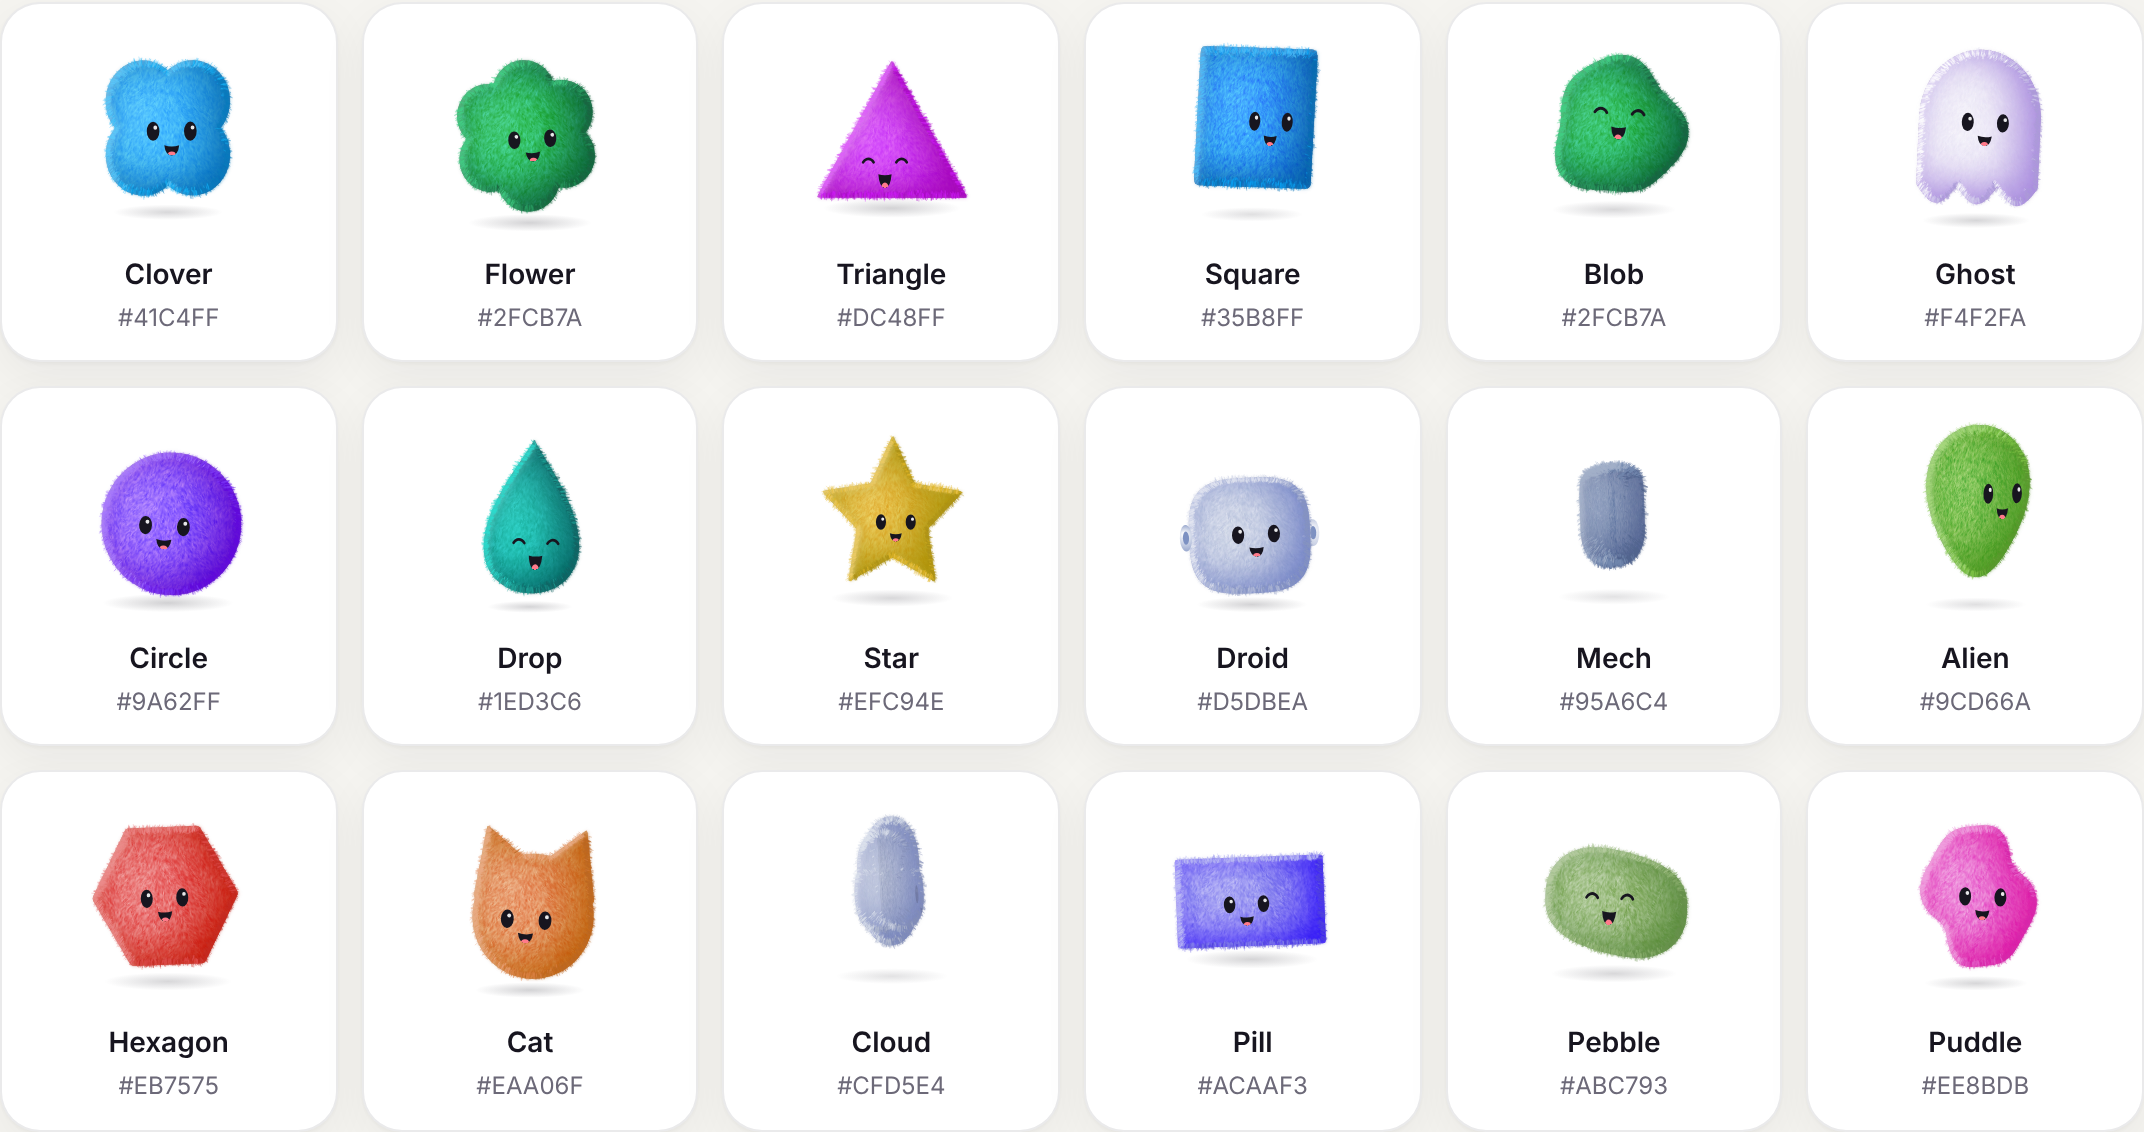
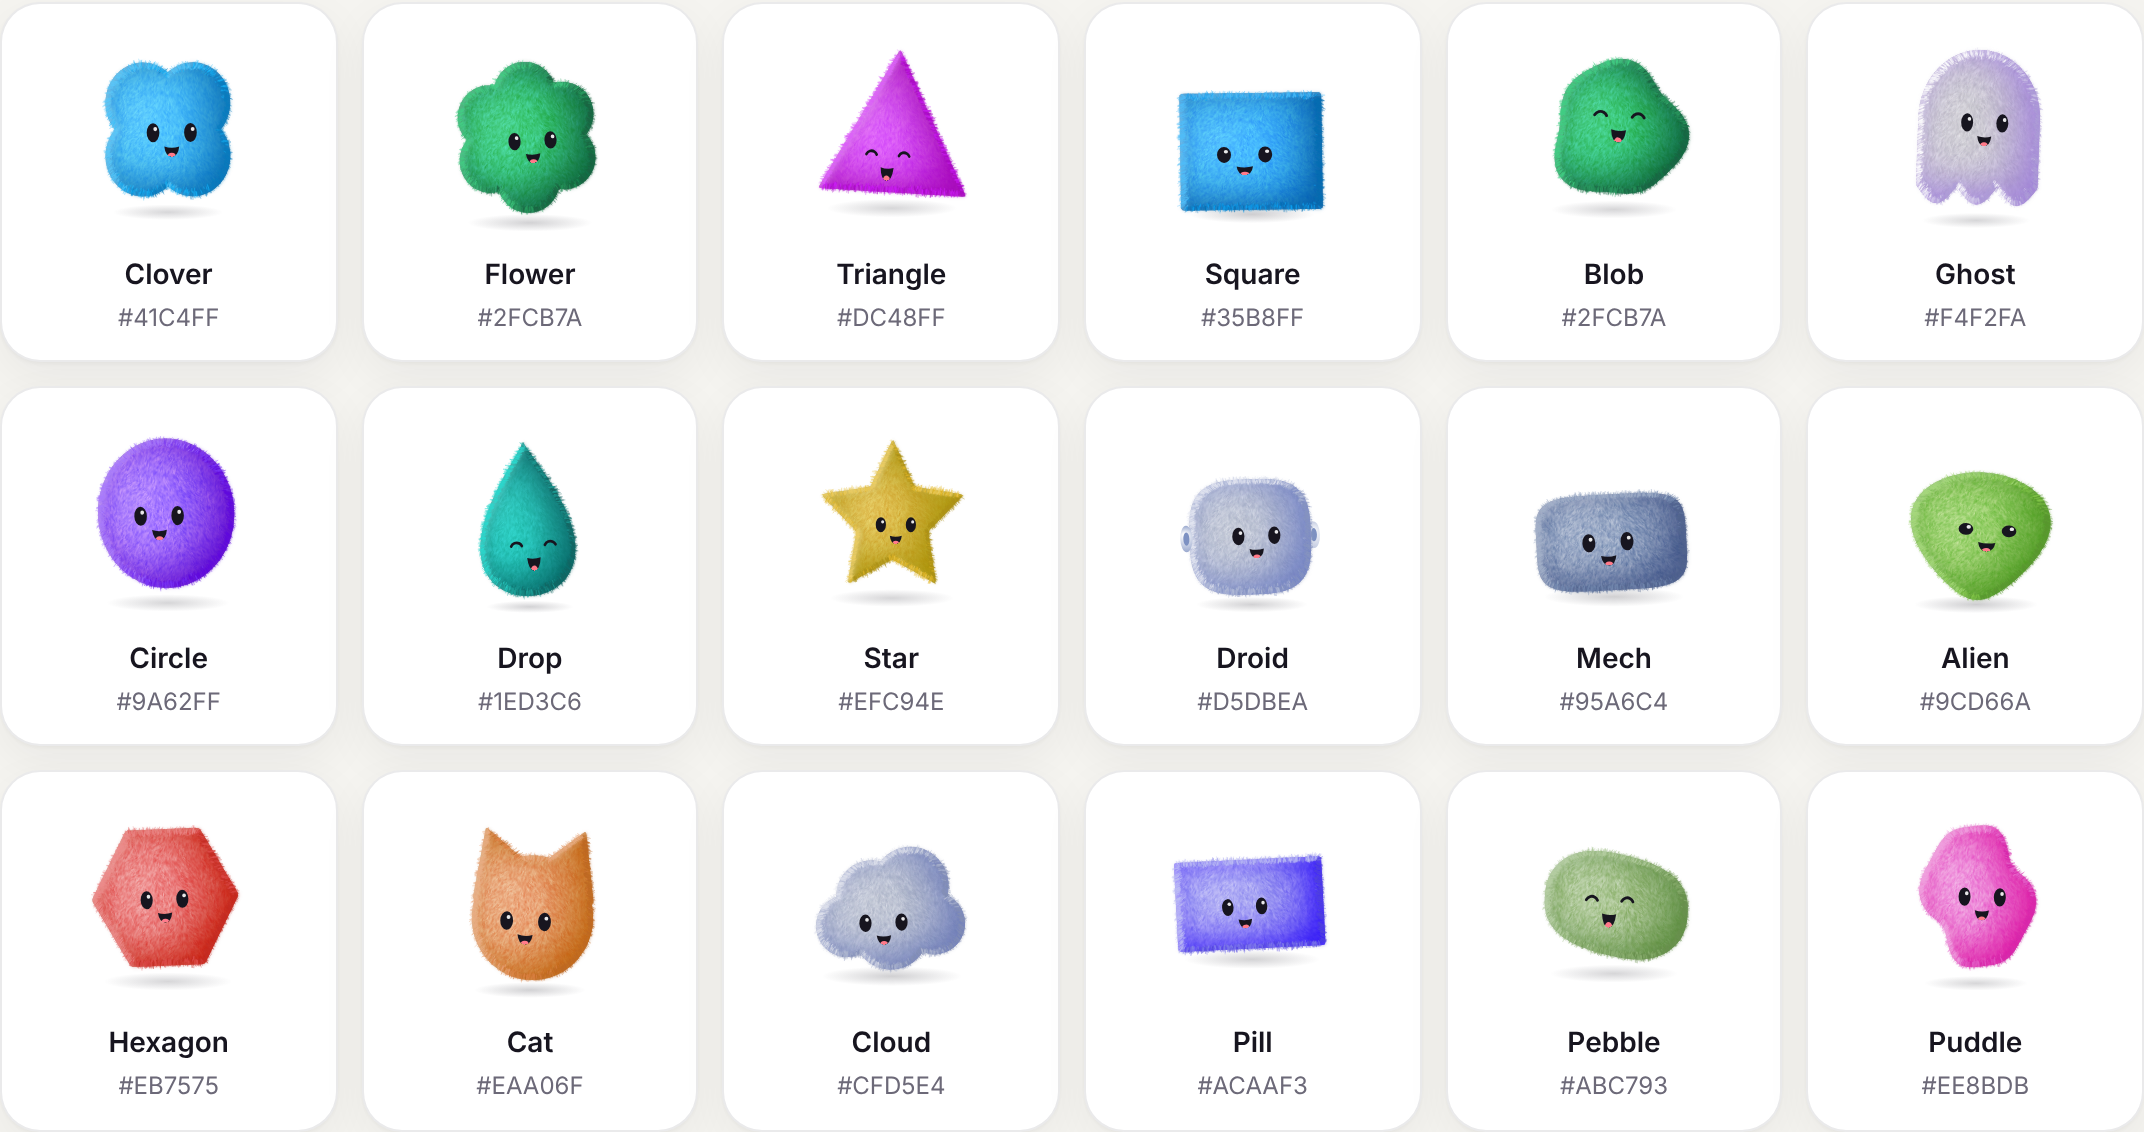
Keep the body's colour steady while turning
The fur skin changed the body's tone as the head turned: it wasn't
neutral on average in overlay, it faded with how much the face pointed
at the viewer, and a second copy switched on mid-turn. The skin is now
levelled to mid grey at bake time and drawn once at constant strength,
never narrower than half width so it still covers the side edge on.

Claude-Session: https://claude.ai/code/session_013h96HCydzUiqHMrSVsiUZ2

diff --git a/src/render.js b/src/render.js
@@ -185,7 +185,7 @@ function furSkin(shape, look, la, px) {
 
   const S = Math.ceil(SKIN_EXT * 2 * P);
   const canvas = makeCanvas(S, S);
-  const g = canvas.getContext('2d');
+  const g = canvas.getContext('2d', { willReadFrequently: true });
   const rand = mulberry32(0.6180339);
   const lx = Math.sin(la), ly = -Math.cos(la);
   g.fillStyle = '#808080';
@@ -253,6 +253,18 @@ function furSkin(shape, look, la, px) {
   tiers[1].forEach((p, i) => { g.strokeStyle = i < 2 ? `rgba(0,0,0,${0.26 - i * 0.1})` : `rgba(255,255,255,${0.06 + (i - 2) * 0.07})`; g.stroke(p); });
   g.lineWidth = width * 0.85;
   tiers[2].forEach((p, i) => { g.strokeStyle = i < 1 ? 'rgba(0,0,0,0.16)' : `rgba(255,255,255,${0.07 + (i - 1) * 0.08})`; g.stroke(p); });
+
+  // Overlay is only neutral around mid grey: lift or sink the whole skin so
+  // its average sits there, and the fur adds texture without shifting the
+  // body's colour however much of it is showing.
+  const data = g.getImageData(0, 0, S, S).data;
+  let sum = 0, cnt = 0;
+  for (let i = 0; i < data.length; i += 4 * 7) { sum += data[i]; cnt++; }
+  const mean = sum / cnt;
+  if (Math.abs(mean - 128) > 0.5) {
+    g.fillStyle = mean < 128 ? `rgba(255,255,255,${(128 - mean) / (255 - mean)})` : `rgba(0,0,0,${(mean - 128) / mean})`;
+    g.fillRect(0, 0, S, S);
+  }
 
   skin = { canvas, P, S };
   skins.set(key, skin);
@@ -515,28 +527,29 @@ export function drawBot(ctx, { size, dpr = 1, pose, look, time = 0 }) {
       // The baked skin rides on the front of the body with the turn. Seen edge
       // on it would smear, so it gives way to the slices' own shading there.
       const skin = furSkin(shape, look, la, R * dpr);
+      // One copy at a constant strength, so the fur never changes the body's
+      // tone as it turns. It follows the turn, but is never squeezed narrower
+      // than half width: edge on, it still covers the side that shows.
       const zf = D * 0.6, e = SKIN_EXT;
-      const facingK = smoothstep(Math.abs(c0) * 1.4 - 0.2);
-      lc.save();
-      // Overlay can't darken near-white, so pale bodies also take the skin
-      // in 'multiply' to show their pile.
-      const pale = clamp((luminance(base) - 0.5) * 1.2, 0, 0.5);
-      for (const [alpha, dz, op] of [[0.6, -2 * zf, 'overlay'], [1, 0, 'overlay'], [pale, 0, 'multiply']]) {
-        if (alpha <= 0) continue;
-        lc.globalCompositeOperation = op;
-        // A second, fainter copy at the back covers the side that shows mid-turn.
-        if (alpha < 1 && Math.abs(s) < 0.15) continue;
-        const pat = lc.createPattern(skin.canvas, 'no-repeat');
-        if (!pat) continue;
-        const z = zf + dz;
-        // Skin pixels → body units → the front of the body, turned.
-        pat.setTransform(new DOMMatrix([R * c, -R * s * sp, 0, R * cp, R * z * s, R * z * c0 * sp])
+      const cx2 = Math.sign(c) * Math.max(Math.abs(c), 0.5);
+      const pat = lc.createPattern(skin.canvas, 'no-repeat');
+      if (pat) {
+        pat.setTransform(new DOMMatrix([R * cx2, -R * s * sp, 0, R * cp, R * zf * s, R * zf * c0 * sp])
           .translate(-e, -e).scale(1 / skin.P));
-        lc.globalAlpha = alpha * (0.55 + 0.45 * facingK);
+        lc.save();
         lc.fillStyle = pat;
+        lc.globalCompositeOperation = 'overlay';
         lc.fill(body);
+        // Overlay can't darken near-white, so pale bodies also take the skin
+        // in 'multiply' to show their pile.
+        const pale = clamp((luminance(base) - 0.5) * 0.8, 0, 0.3);
+        if (pale > 0) {
+          lc.globalCompositeOperation = 'multiply';
+          lc.globalAlpha = pale;
+          lc.fill(body);
+        }
+        lc.restore();
       }
-      lc.restore();
     }
 
     const q = clamp(120 / Math.max(W, H), 0.2, 0.5);

diff --git a/README.md b/README.md
@@ -94,7 +94,7 @@ Every frame is plain 2D canvas, built to stay cheap with many avatars on a page:
 - **Adaptive depth.** The body is its outline stacked through its depth, but only with as many slices as the turn needs: one when facing you, more (about 3 device pixels apart) as front and back pull apart.
 - **Body layer, no clips.** Everything on the body (turn shading, fur, light, face) is painted into one shared offscreen layer with `source-atop`, then composited in a single draw of just the body's box.
 - **Deferred, reused light.** Inner shadow, occlusion and rim are blurred in a small buffer (≈120 px) and stretched back over the crisp silhouette. Each avatar keeps its buffers between frames: a hop only shifts them, and they're re-lit only once the outline has changed by about a buffer pixel.
-- **Baked plush.** The fur is baked once per shape into a grey skin in the body's own coordinates and laid over the body in `overlay` blending (plus a touch of `multiply` on pale colours), mapped with the turn so the pile stays on the surface. Overlay darkens and lightens without greying, so one bake serves every colour and the fur keeps the body's saturation. The skin is tens of thousands of hair-thin strands at device-pixel scale, painted in tiers (deep pile, body, tips), combed by a flow field (hair falls from a crown above the head, twisted into clumps by noise), with tips lit by a Kajiya–Kay fibre term so the nap shows soft sheen. A broad cushion falloff gives the volume, and the edge is a soft band of fuzz behind the silhouette with a dense fringe of fine strands, toned by the light.
+- **Baked plush.** The fur is baked once per shape into a grey skin in the body's own coordinates and laid over the body in `overlay` blending (plus a touch of `multiply` on pale colours), mapped with the turn so the pile stays on the surface. Overlay darkens and lightens without greying, so one bake serves every colour and the fur keeps the body's saturation; the skin is levelled to mid grey on average and drawn at constant strength, so it never shifts the body's colour as it turns. The skin is tens of thousands of hair-thin strands at device-pixel scale, painted in tiers (deep pile, body, tips), combed by a flow field (hair falls from a crown above the head, twisted into clumps by noise), with tips lit by a Kajiya–Kay fibre term so the nap shows soft sheen. A broad cushion falloff gives the volume, and the edge is a soft band of fuzz behind the silhouette with a dense fringe of fine strands, toned by the light.
 - **Only draw what changed.** A frame is skipped when the pose has moved less than a quarter of a device pixel, so a resting avatar breathing in sub-pixel steps is mostly free. Off-screen and reduced-motion avatars don't animate.
 - **Frame budget.** All avatars share one animation loop. When the page can't keep up, they take turns redrawing while their simulations keep real time, so the page keeps its frame rate.
 
